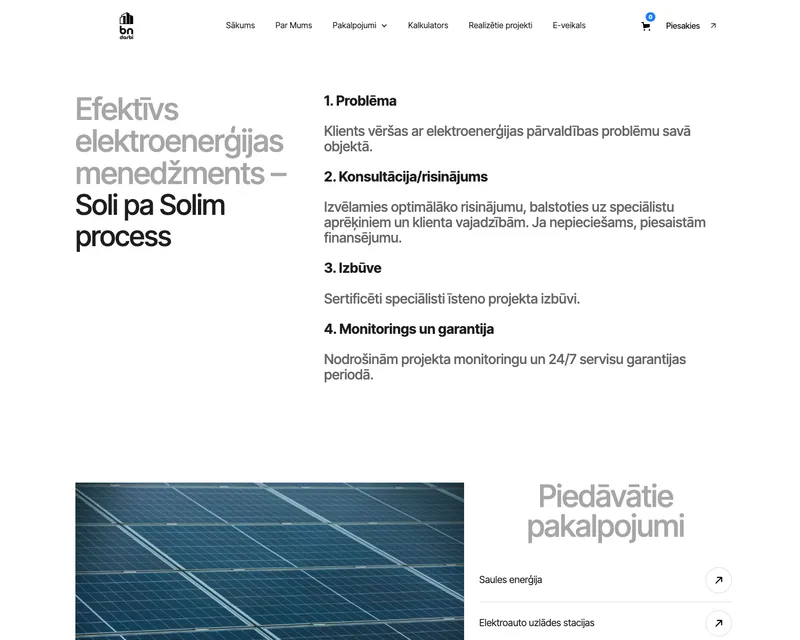
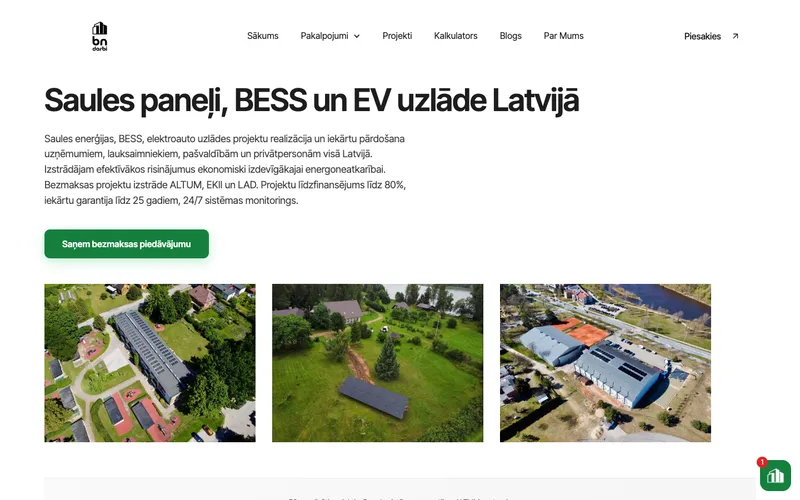
fix(portfolio): Solinteg 3D landing and fresh BN Darbi screenshots, Lovable badge cropped
Claude-Session: https://claude.ai/code/session_01DgJzwKfM5SuSpGZs29WHsr

diff --git a/src/components/PortfolioCarousel.tsx b/src/components/PortfolioCarousel.tsx
@@ -38,7 +38,7 @@ const portfolioItems: Project[] = [
     title: "Saules elektrostaciju reāllaika displejs un API",
     description: "Publisks displejs Babītes vidusskolai un diviem bērnudārziem: sienas TV rāda saražoto, objektā patērēto un tīklā nodoto elektroenerģiju no Solinteg stacijām. Dati ievācas katru stundu, glabājas Postgres un ir pieejami kā JSON caur REST API ar piekļuves atslēgu. Papildus 3D landing lapa ar trim ēkām un dzīvām enerģijas plūsmām.",
     category: "Datu analīze",
-    image: "/portfolio/solinteg.webp",
+    image: "/portfolio/solinteg-3d.webp",
     imageWidth: 800,
     imageHeight: 500,
     client: "BN Darbi",
@@ -170,7 +170,7 @@ const portfolioItems: Project[] = [
     category: "Web izstrāde",
     image: "/bndarbi.webp",
     imageWidth: 800,
-    imageHeight: 640,
+    imageHeight: 500,
     client: "BN Darbi",
     year: "2024",
     tags: ["Saules paneļi", "E-komercija", "Informatīvā lapa"],
@@ -203,7 +203,7 @@ const portfolioItems: Project[] = [
     category: "Web izstrāde",
     image: "/portfolio/autoremonts.webp",
     imageWidth: 800,
-    imageHeight: 500,
+    imageHeight: 461,
     client: "Autoremonts.com",
     year: "2025",
     tags: ["Autoserviss", "SEO", "Vizītkarte"],
